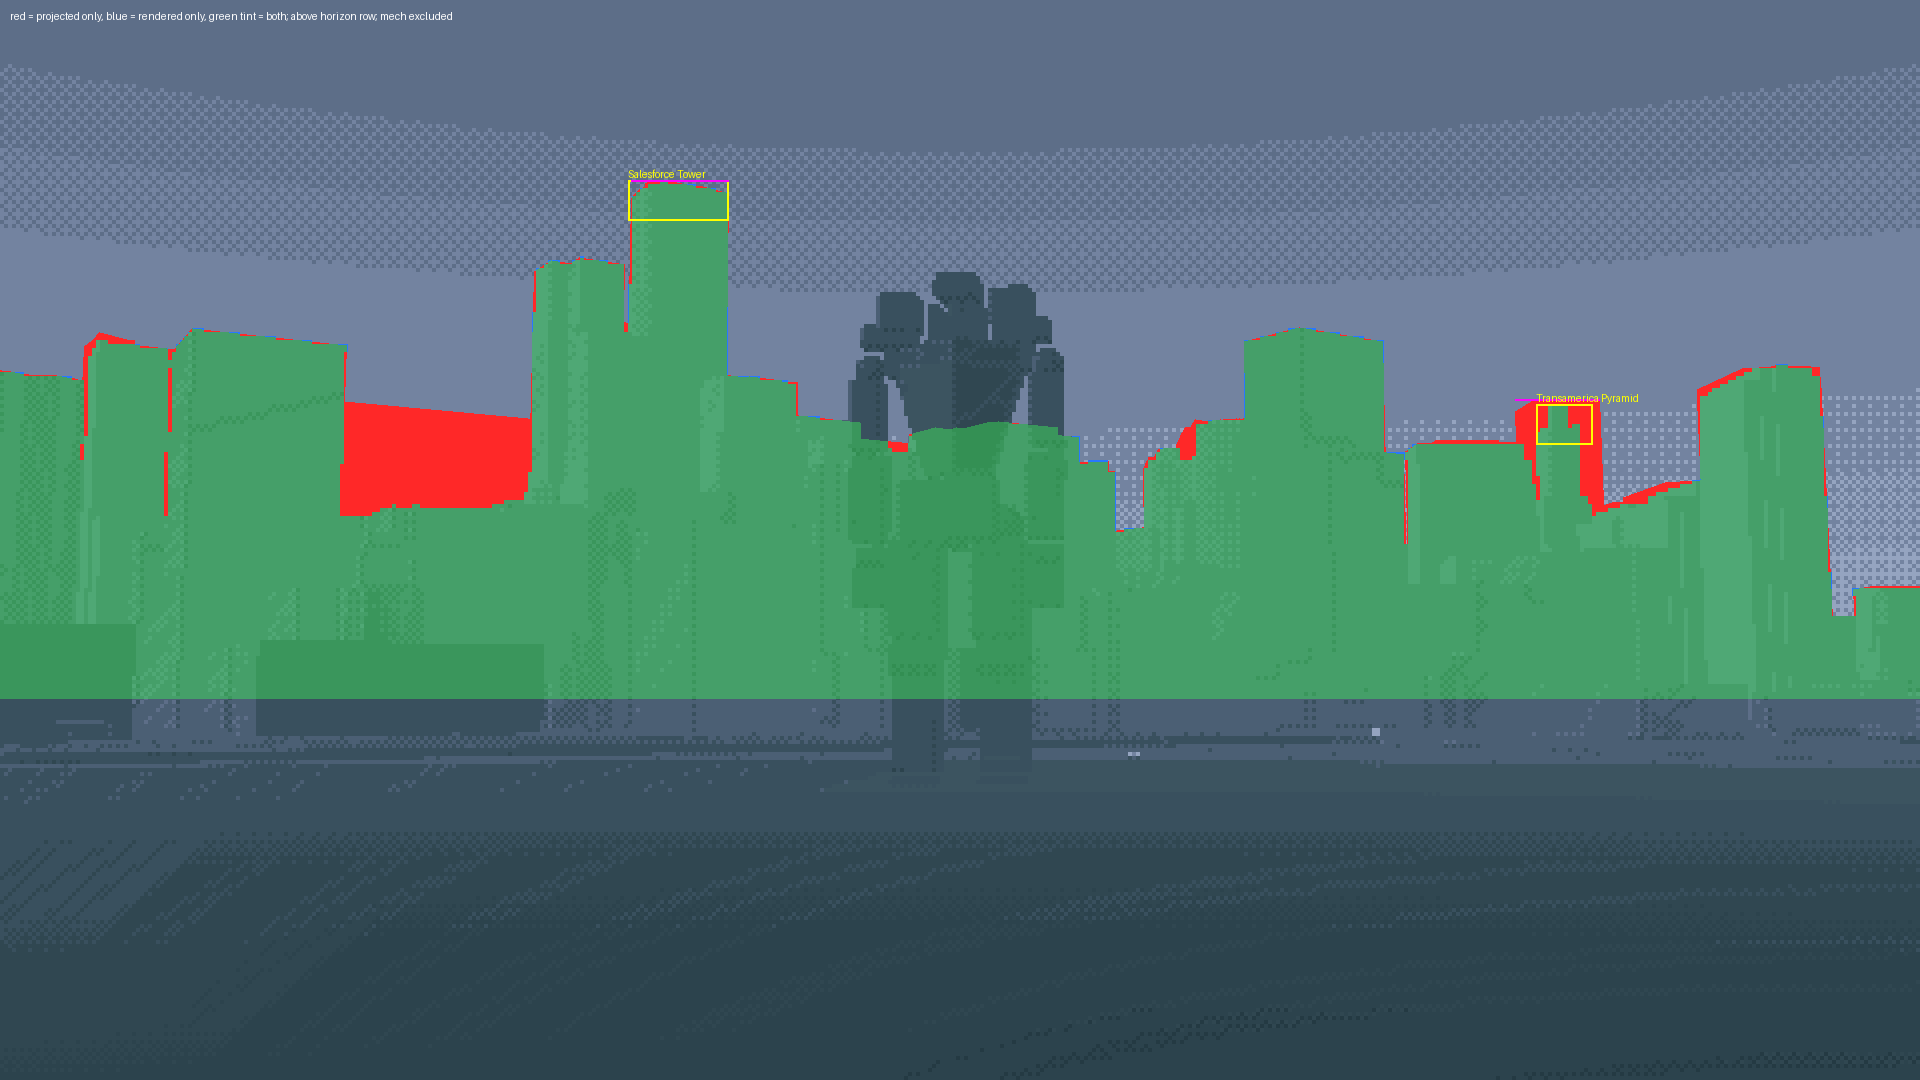
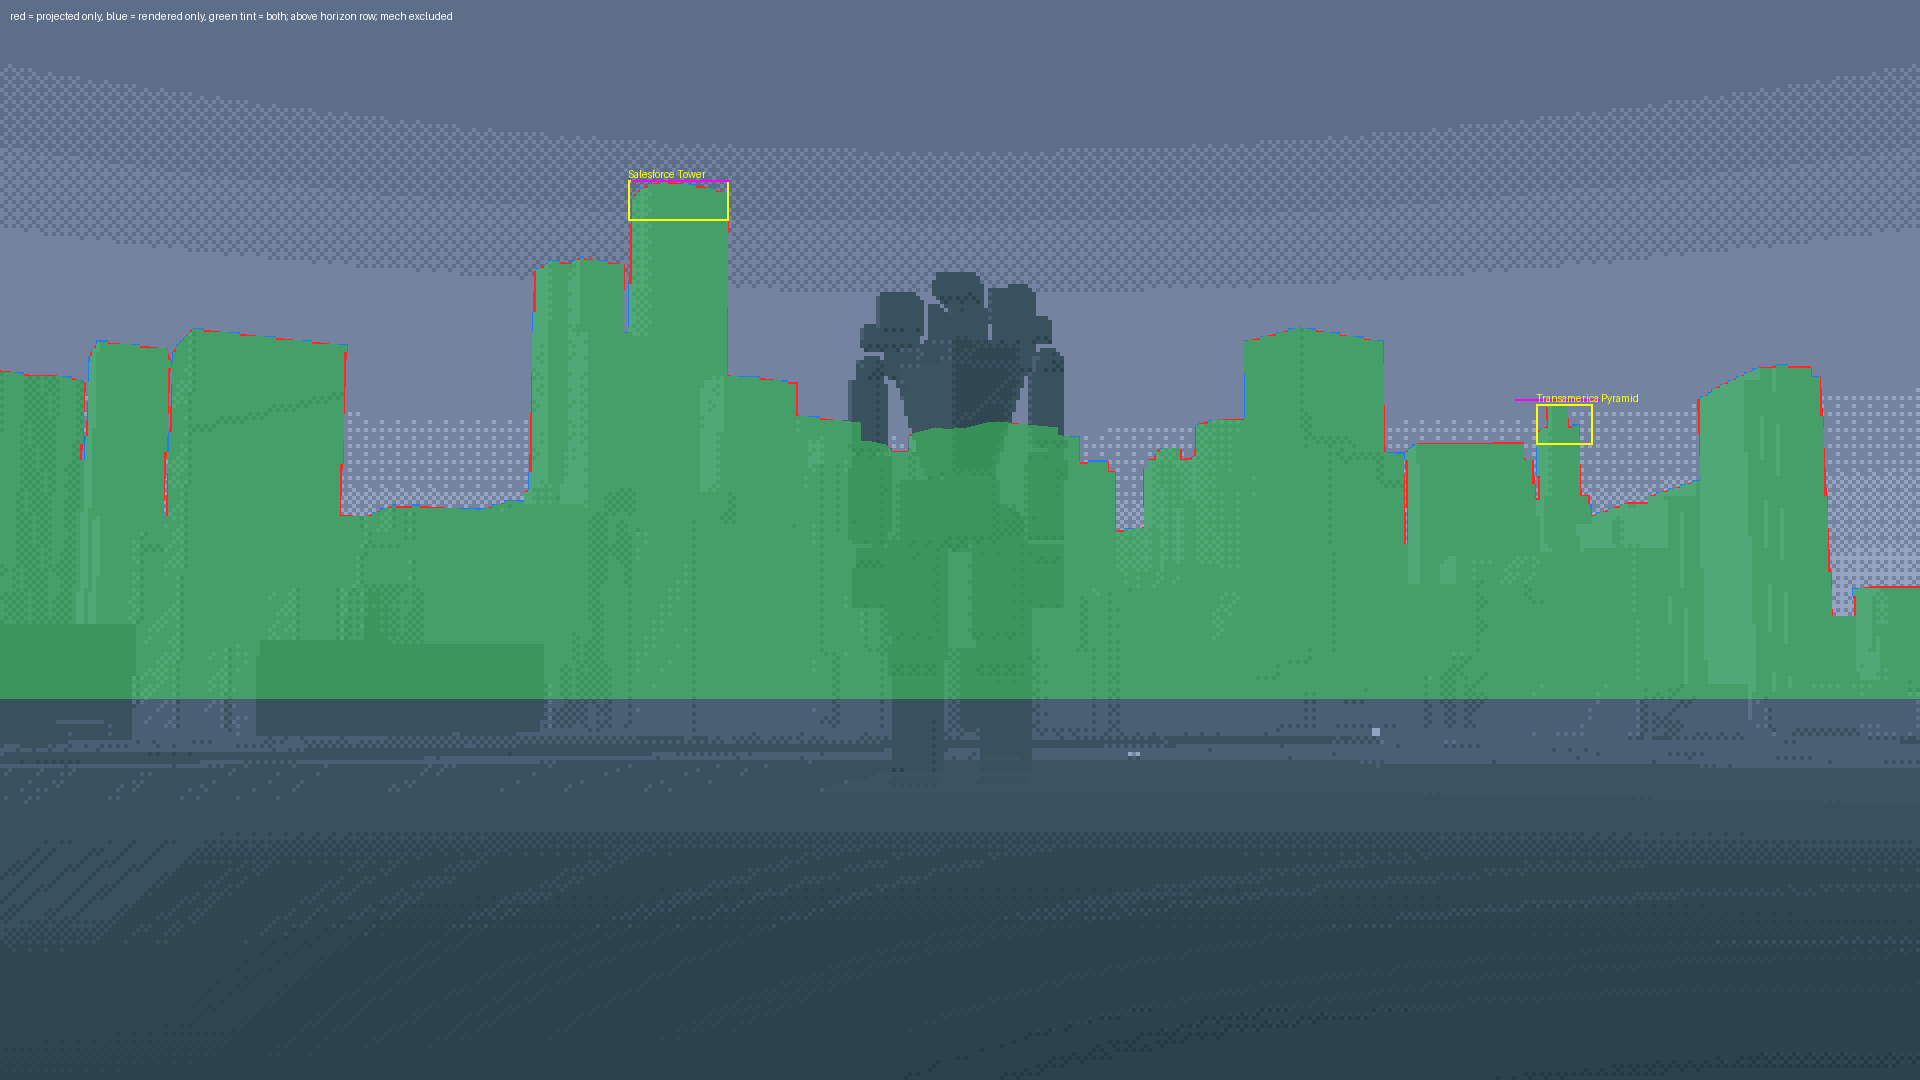
T-006 step 4: thumb test, scale plate, skyline check, review boards (parts replace parents, IoU 0.991)

diff --git a/kaiju/evidence/T-006/tools/step4_checks.py b/kaiju/evidence/T-006/tools/step4_checks.py
@@ -279,7 +279,7 @@ def draw_poly(pts3):
 
 
 import sys
-SKIP_PARENTS = "--skip-parents" in sys.argv
+SKIP_PARENTS = "--keep-parents" not in sys.argv
 used = 0
 for f in FEATS:
     pr = f["properties"]
@@ -371,7 +371,7 @@ errs = [l["max_abs_error_px"] for l in lms if "max_abs_error_px" in l]
 json.dump({
     "criterion": "C9: skyline IoU >= 0.98 at the hero camera; landmark projections within 3 px at 1080p",
     "camera_convention": "Unity left-handed pinhole from the capture sidecar pose (position_local_m + rotation_xyzw, post rig snap), BayTM -> scene by subtracting floating_origin_baytm; the sidecar's own yaw/pitch/roll agree with the quaternion. Uncertain: whether the in-game building prisms use height_m from base_navd88_m (assumed; Salesforce top 330.892 = 4.892 + 326 matches shot_params tallest_tower) and whether part/parent footprints are both extruded (assumed yes, union). Pixel-centre convention taken as continuous output px, top-left origin.",
-    "building_features_extruded": used,
+    "building_features_extruded": used, "parents_with_parts_skipped": SKIP_PARENTS, "parent_choice_note": "parent outlines of building:part groups are replaced by their parts (IoU 0.946 with parents kept, 0.991 without); the rendered tile appears to use the parts; flat prisms only, pyramid and skillion roofs not modelled, so the Transamerica apex error is partly roof shape",
     "iou_above_horizon_rows_excl_mech": round(iou_above, 4),
     "iou_full_frame_excl_mech_building_mask_vs_all_nonsky": round(iou_full, 4),
     "iou_note": "above-horizon rows: rendered non-sky (buildings plus any terrain beyond the tile) vs projected building prisms, both at 1080p with the 480x270 render nearest-upscaled by 4; the full-frame figure is not meaningful for C9 because terrain and water are not in the building data",
